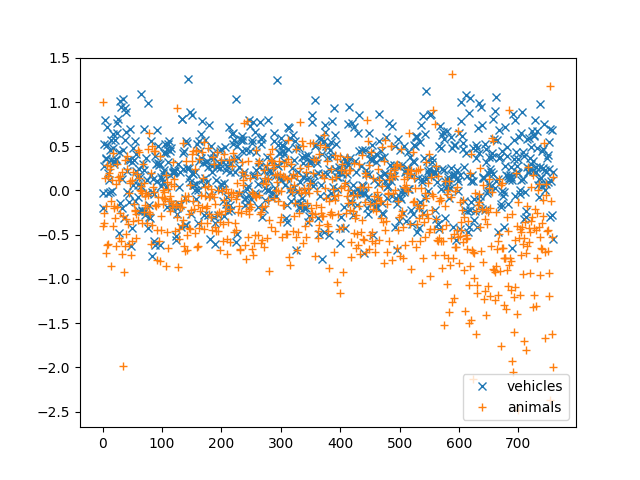
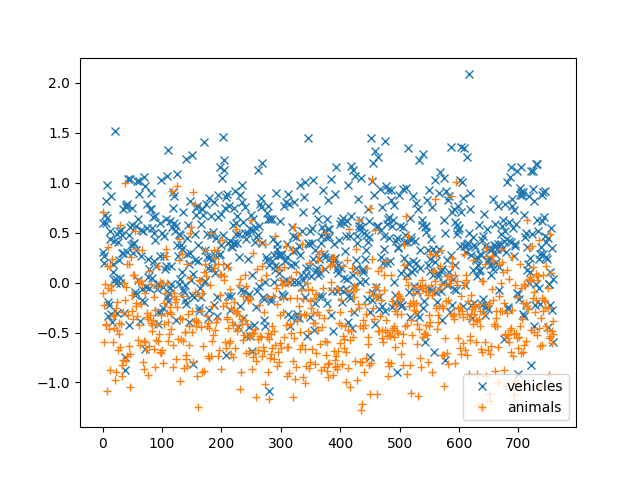
add

diff --git a/dataloaders/bold5000_wordnet_mods.py b/dataloaders/bold5000_wordnet_mods.py
@@ -67,8 +67,8 @@ class Bold5000(Dataset):
 
         self.brain_target_data = self.data['RHPPA']
 
-        quantile_transformer = QuantileTransformer(random_state=0,n_quantiles=92)
-        self.brain_target_data=torch.tensor(quantile_transformer.fit_transform(self.brain_target_data))
+        #quantile_transformer = QuantileTransformer(random_state=0,n_quantiles=92)
+        #self.brain_target_data=torch.tensor(quantile_transformer.fit_transform(self.brain_target_data))
 
         #self.brain_target_data=(self.brain_target_data - self.brain_target_data.min())/(self.brain_target_data.max()-self.brain_target_data.min())
         #self.brain_target_data= (self.brain_target_data - self.brain_target_data.mean()) / self.brain_target_data.std()

diff --git a/unsupervised_cifar.py b/unsupervised_cifar.py
@@ -45,12 +45,12 @@ fmri_class_data=[]
 for i in b5000.imagenet_idxs:
     image, target, idx=b5000[i]
     out=model(image.unsqueeze(dim=0)).detach().numpy()
-    fmri_data.append(out[0])
+    #fmri_data.append(out[0])
 
-    #fmri_data.append(b5000.brain_target_data[i].numpy())
-    print(out[0])
-    print(b5000.brain_target_data[i].numpy())#.numpy()
-    break
+    fmri_data.append(b5000.brain_target_data[i])
+    #print(out[0])
+    #print(b5000.brain_target_data[i].numpy())#.numpy()
+    #break
 
     fmri_class_data.append(b5000.binary_class_data[b5000.CSI01_stim_lists[i]])
 

diff --git a/fmri_direct_trainer.py b/fmri_direct_trainer.py
@@ -55,8 +55,8 @@ class FMRIDirectTrainer():
         fmri_target=fmri_target.type(torch.float32)
         #fmri_loss=F.binary_cross_entropy(fmri_out1,fmri_target, reduction='sum')
 
-        #fmri_loss=self.loss(fmri_out1,fmri_target)
-        fmri_loss=F.binary_cross_entropy(fmri_out1, fmri_target, reduction='sum')
+        fmri_loss=self.loss(fmri_out1,fmri_target)
+        #fmri_loss=F.binary_cross_entropy(fmri_out1, fmri_target, reduction='sum')
 
         #fmri_loss = (self.cos(fmri_out1, fmri_target))#.pow(2).mean()
         #print(fmri_loss)

diff --git a/models/resnet.py b/models/resnet.py
@@ -220,7 +220,7 @@ class ResNet(nn.Module):
         x = torch.flatten(x, 1)
 
         x = self.fc1(x)
-        x=F.sigmoid(x)
+        #x=F.sigmoid(x)
 
 
         #x=self.fc2(x)
